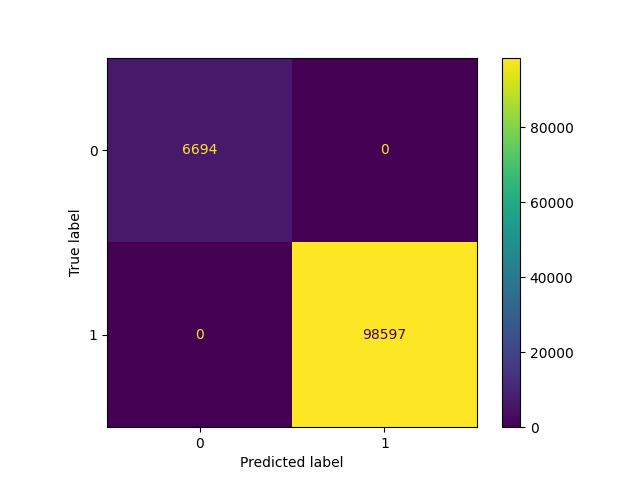
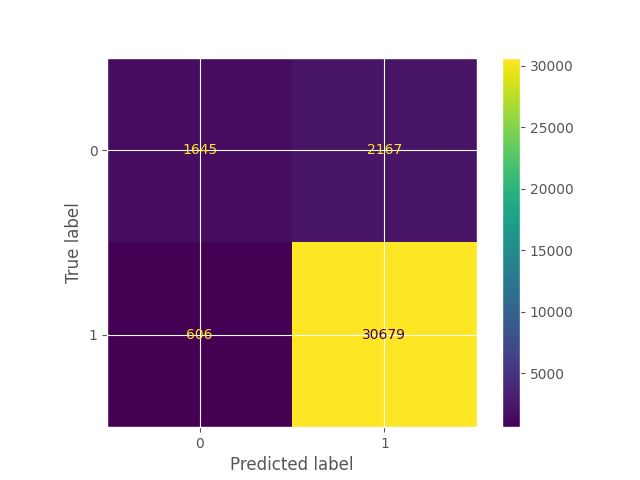
solved bug in classification plot

diff --git a/inbuilt/logistic_regression_classification.py b/inbuilt/logistic_regression_classification.py
@@ -40,7 +40,7 @@ def controller_predict(controller, test_data, test_labels, plot=True):
     clf = load('model/lr_model_inbuilt.joblib')
     predictions = clf.predict(test_data)
     if plot:
-        plot_confusion_matrix(clf, test_data, predictions)
+        plot_confusion_matrix(clf, test_data, test_labels)
         plt.show()
 
     controller.setLRInbuilt(round(accuracy_score(test_labels, predictions) * 100, 3))

diff --git a/inbuilt/naivebayes_classification.py b/inbuilt/naivebayes_classification.py
@@ -39,7 +39,7 @@ def controller_predict(controller, test_data, test_labels, plot=True):
     clf = load('model/nb_model_inbuilt.joblib')
     predictions = clf.predict(test_data)
     if plot:
-        plot_confusion_matrix(clf, test_data, predictions)
+        plot_confusion_matrix(clf, test_data, test_labels)
         plt.show()
 
     controller.setNBInbuilt(round(accuracy_score(test_labels, predictions) * 100, 3))

diff --git a/inbuilt/knn_classification.py b/inbuilt/knn_classification.py
@@ -42,7 +42,7 @@ def controller_predict(controller, test_data, test_labels, plot=True):
     predictions = clf.predict(test_data)
     
     if plot:
-        plot_confusion_matrix(clf, test_data, predictions)
+        plot_confusion_matrix(clf, test_data, test_labels)
         plt.show()
 
     controller.setKNNInbuilt(round(accuracy_score(test_labels, predictions) * 100, 3))
